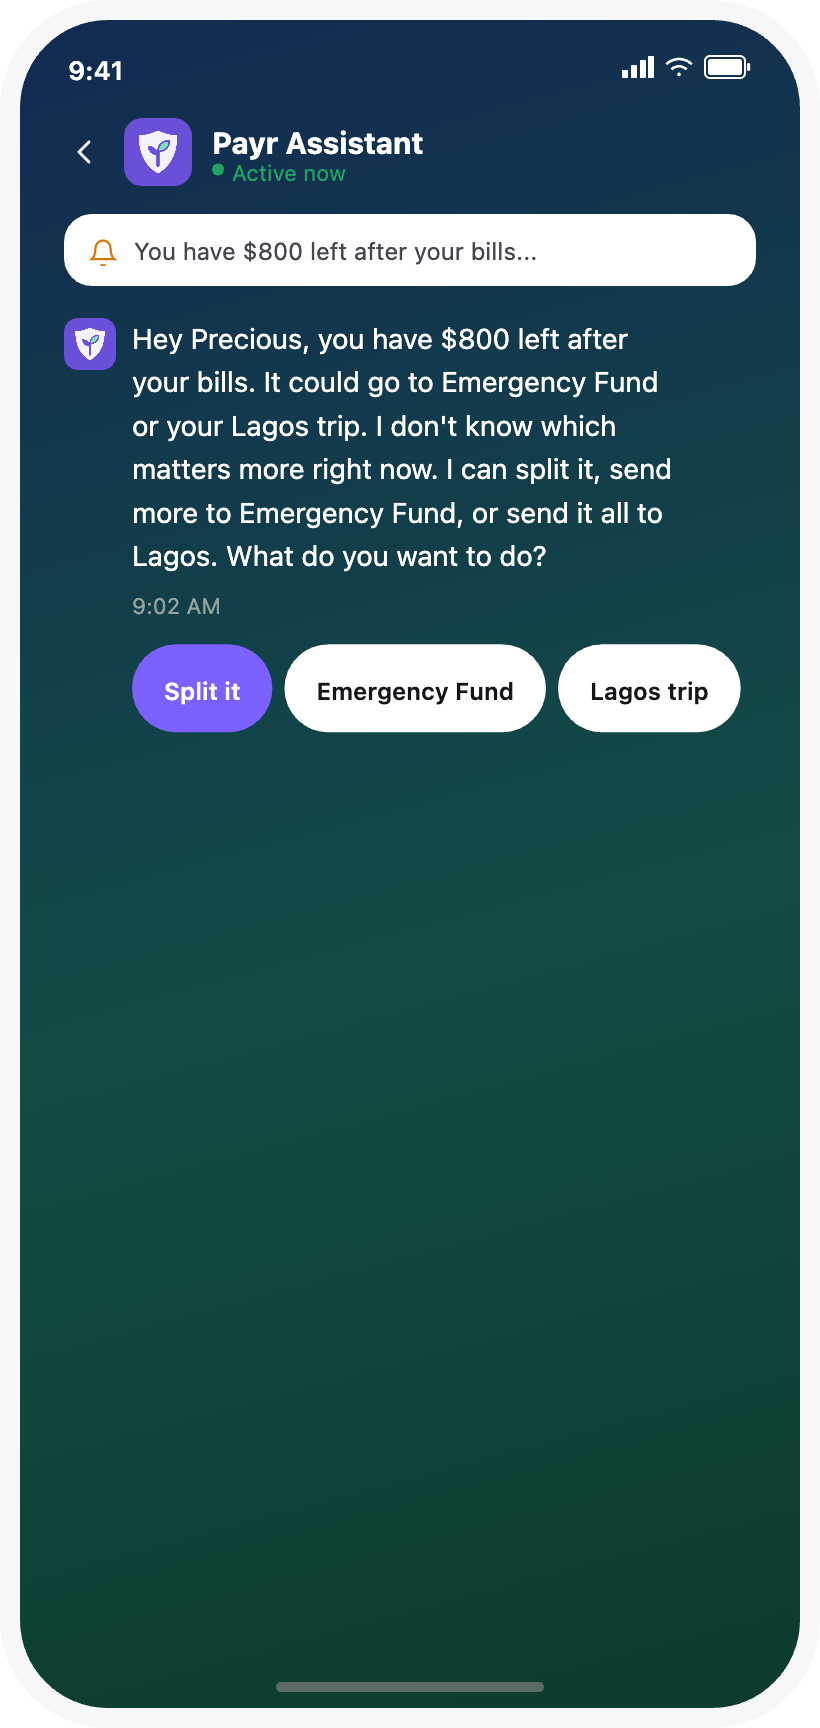
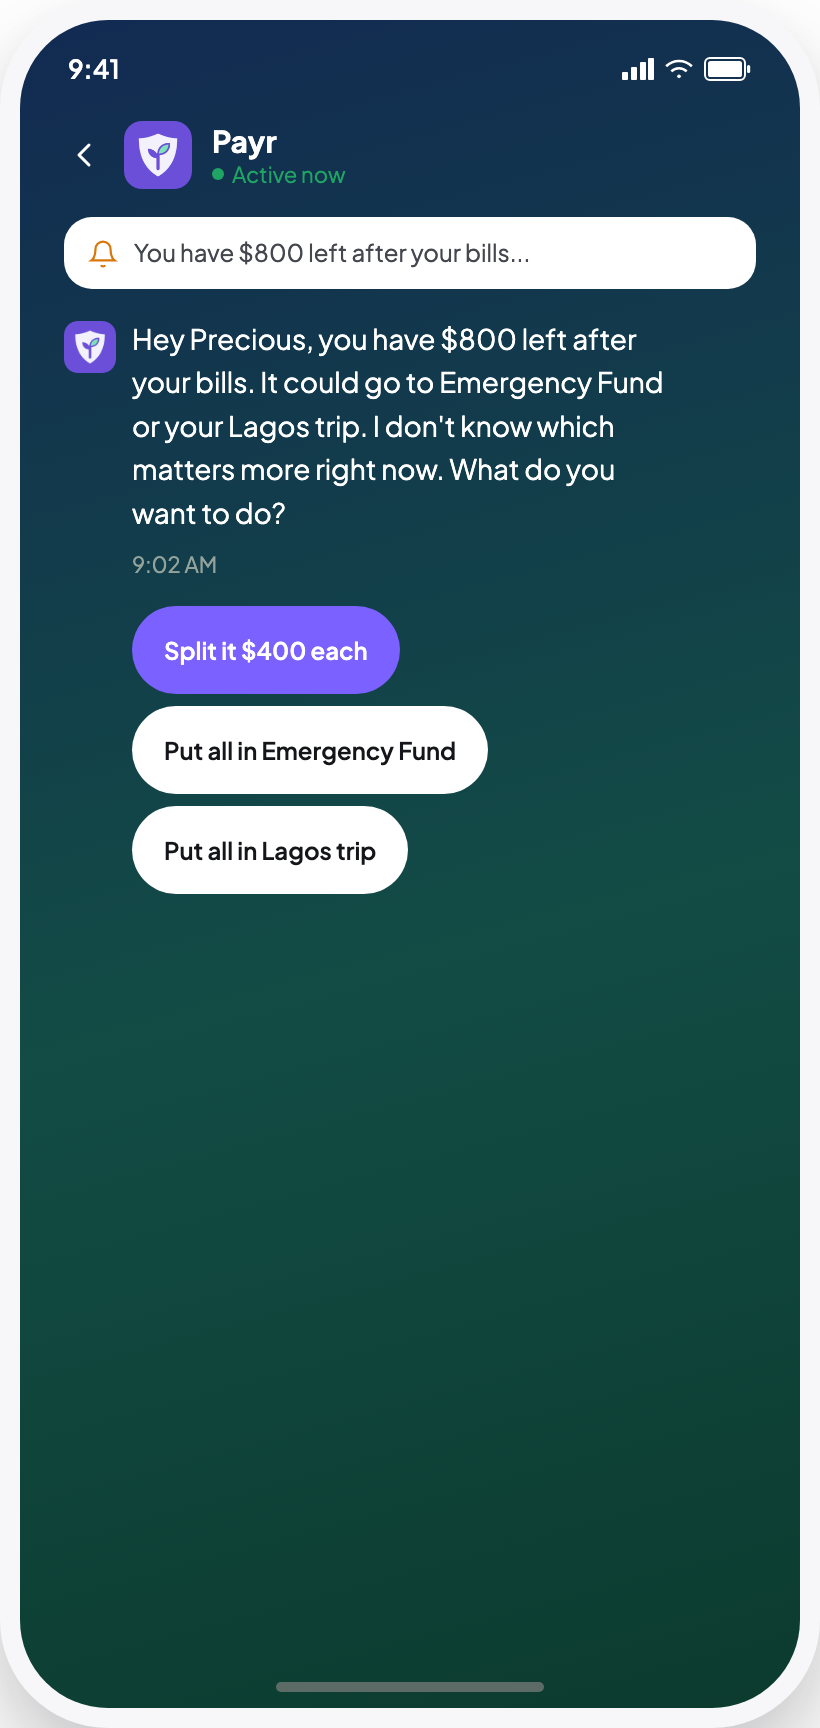
Update Payr case study to the audited screen copy
Re-rendered the five Payr phone screenshots and updated the uncertain-state
quote and image alt text to match the revised mockup copy.

diff --git a/payr-case-study.html b/payr-case-study.html
@@ -108,7 +108,7 @@
 
   <section class="case-cover">
     <div class="case-cover-panel sky" style="display:flex;justify-content:center">
-      <img src="images/payr-intro.png" alt="Payr app opening screen: 'Hi Precious, I'm Payr,' with a prompt to ask Payr anything" style="width:auto;max-width:320px;height:auto;display:block;border-radius:20px">
+      <img src="images/payr-intro.png" alt="Payr app opening screen: 'Hey Precious, I'm Payr,' with a prompt to ask Payr anything" style="width:auto;max-width:320px;height:auto;display:block;border-radius:20px">
     </div>
   </section>
 
@@ -174,7 +174,7 @@
       <div class="figure-grid" style="grid-template-columns:1fr;max-width:320px;margin:0 auto">
         <figure class="case-figure">
           <div class="panel sky centered">
-            <img src="images/payr-settings.png" alt="Payr app settings screen showing the auto-save windfalls cap slider set to $1,000">
+            <img src="images/payr-settings.png" alt="Payr app settings screen showing the auto-save windfalls limit slider set to $1,000">
           </div>
           <figcaption>The cap lives in Settings, not in the agent's judgment, visible, adjustable, and the actual trust boundary the rest of the system is built around.</figcaption>
         </figure>
@@ -197,7 +197,7 @@
           <p>I designed the persona to be warm, plain-spoken and accountable: a friend who is good with money and has access to your account, not a mascot and not a compliance notice. Three response states carry the voice day to day, with a fourth reserved for anything serious, overdraft risk, suspected fraud, where casualness drops entirely:</p>
           <ul class="level-list">
             <li><span class="dot">●</span><span><strong>Confident.</strong> "Hey Precious, I moved $800 into your Emergency Fund. You told me I could auto-save up to $1,000 from extra deposits once your bills are covered. This was under that limit. Undo it in one tap if this is wrong, and tell me so I do better next time."</span></li>
-            <li><span class="dot">●</span><span><strong>Uncertain.</strong> "Hey Precious, you have $800 left after your bills. It could go to Emergency Fund or your Lagos trip. I don't know which matters more right now. I can split it, send more to Emergency Fund, or send it all to Lagos."</span></li>
+            <li><span class="dot">●</span><span><strong>Uncertain.</strong> "Hey Precious, you have $800 left after your bills. It could go to Emergency Fund or your Lagos trip. I don't know which matters more right now. What do you want to do?"</span></li>
             <li><span class="dot">●</span><span><strong>Refusing.</strong> "No, I can't go that low. $50 isn't enough if a bill is higher than usual. I don't want you to run out of money because of me. I can go to $200 instead and tell you if it gets close. Your call."</span></li>
           </ul>
           <p>One line shows the tightening in practice:</p>
@@ -316,7 +316,7 @@
         </figure>
         <figure class="case-figure">
           <div class="panel sky centered">
-            <img src="images/payr-recovery.png" alt="Payr app activity log showing a correction: $500 moved back to checking">
+            <img src="images/payr-recovery.png" alt="Payr app activity log showing $500 moved back to checking after a missed repair bill">
           </div>
           <figcaption>The recovery flow, shown as an activity entry rather than a chat bubble: real apps log a correction, they don't just apologize mid-conversation.</figcaption>
         </figure>
